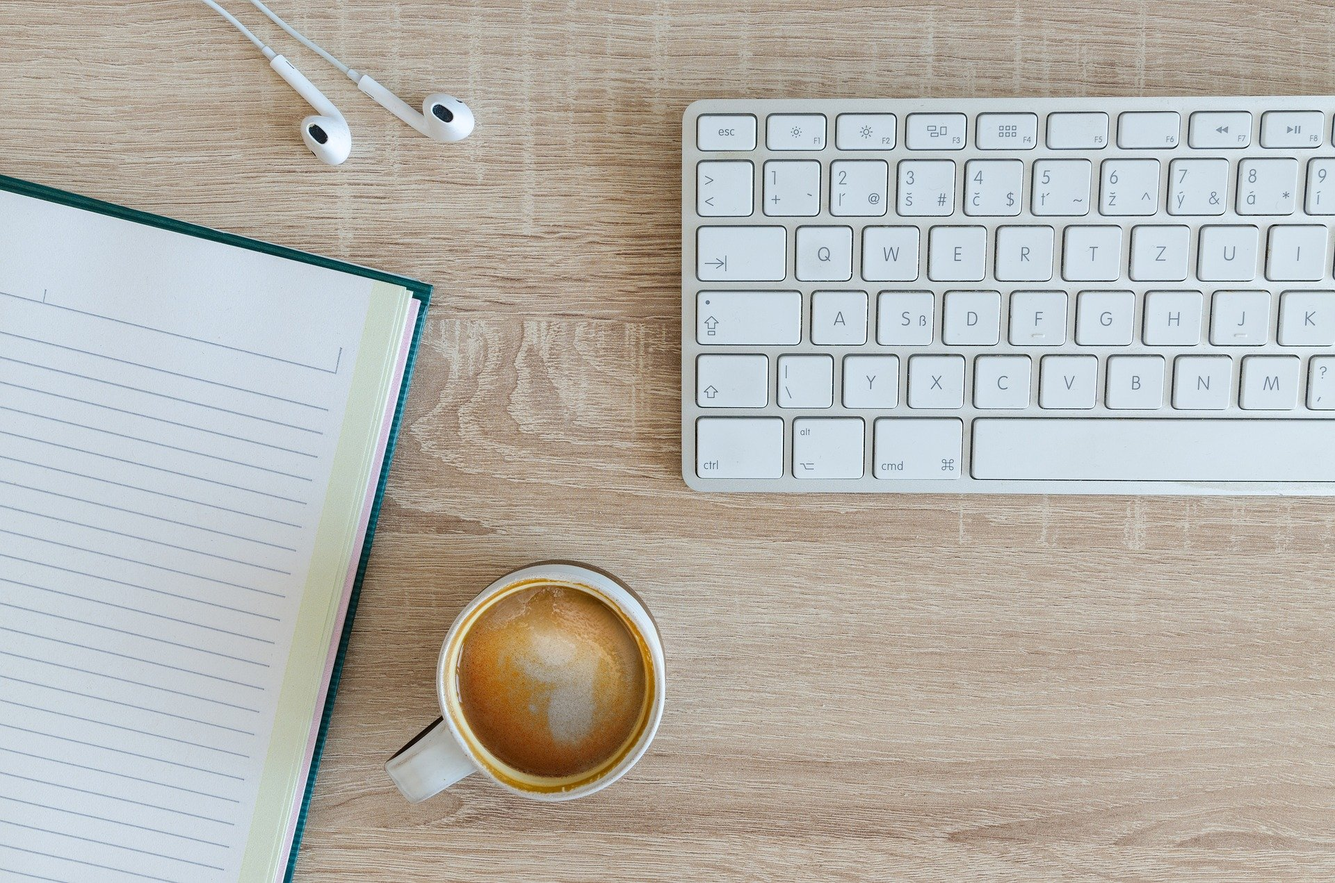
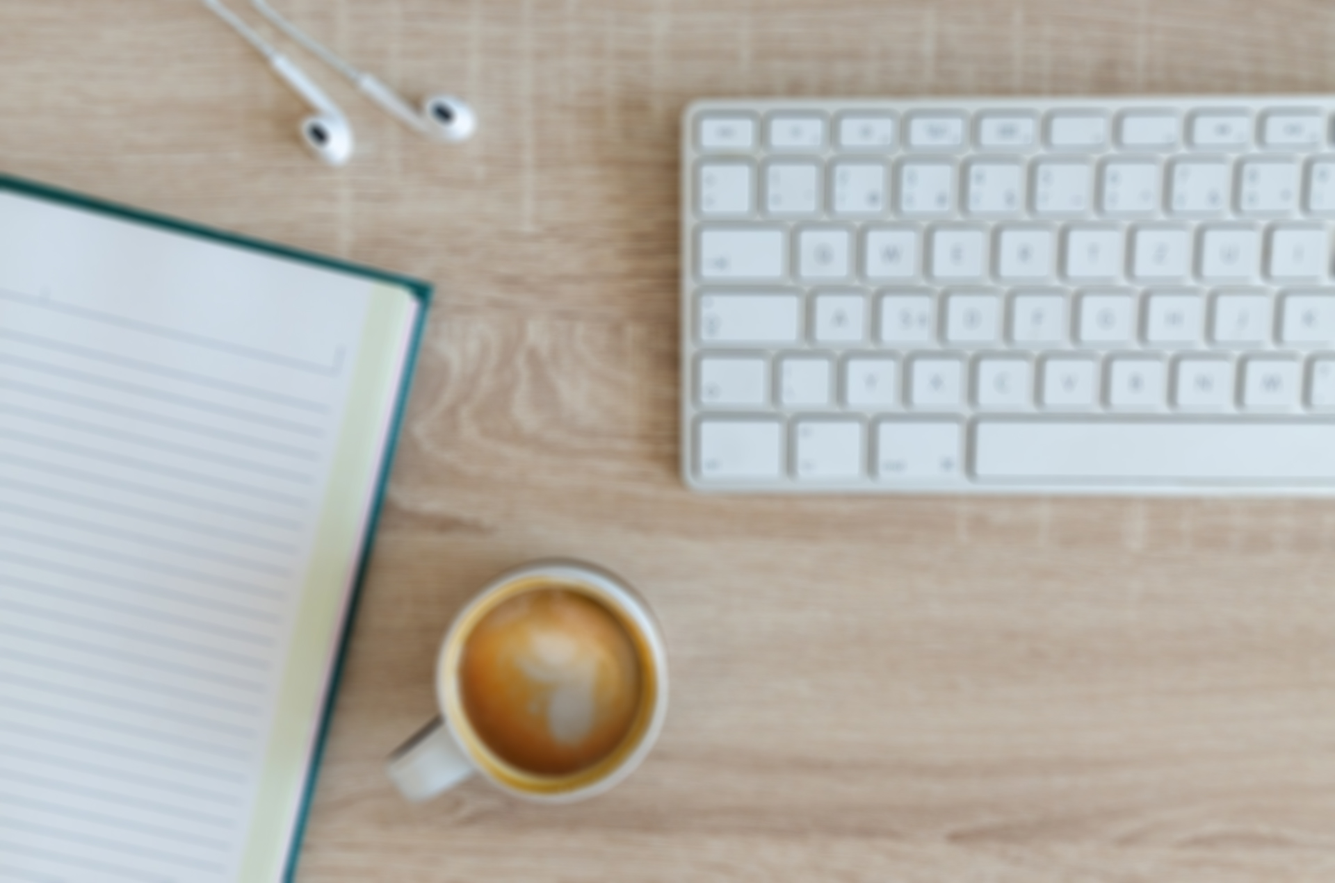
Texto H1 e P no index pronto

Changed region(s): [[0.0, 0.0, 1.0, 1.0], [0.9062, 0.8592, 1.0, 0.8899]]

diff --git a/Site instituconal HTML/css/style.css b/Site instituconal HTML/css/style.css
@@ -67,5 +67,23 @@ body{
     text-align: center;
     min-height: 540px;
     min-width: 1100px;
-    filter: blur(3px);
+}
+
+.showcase h1{
+    margin: 0;
+    font-size: 55px;
+    padding-top: 290px;
+    padding-left: 750px;
+}
+
+.showcase p{
+    font-size: 22px;
+    padding-left: 750px;
+    text-align: right;
+}
+
+.new{
+    background-color:#232323;
+    color: #ffffff;
+    padding: 30px 0px 30px 0px;
 }

diff --git a/Site instituconal HTML/html/index.html b/Site instituconal HTML/html/index.html
@@ -27,9 +27,13 @@
             </div>
         </div>
     </div>
-
     <div class="showcase">
-        <div class="container"></div>
+        <div class="container">
+            <h1>Amonimous</h1>
+            <p>A resposta em sensores para a <br>
+        segurança do seu armazenamento<br>
+        de nitrato de amônio</p>
+        </div>
     </div>
 
 </body>

diff --git a/Site instituconal HTML/html/contato.html b/Site instituconal HTML/html/contato.html
@@ -28,5 +28,11 @@
         </div>
     </div>
 
+    <div class="new">
+        <div class="container">
+           
+        </div>
+    </div>
+
 </body>
 </html>
